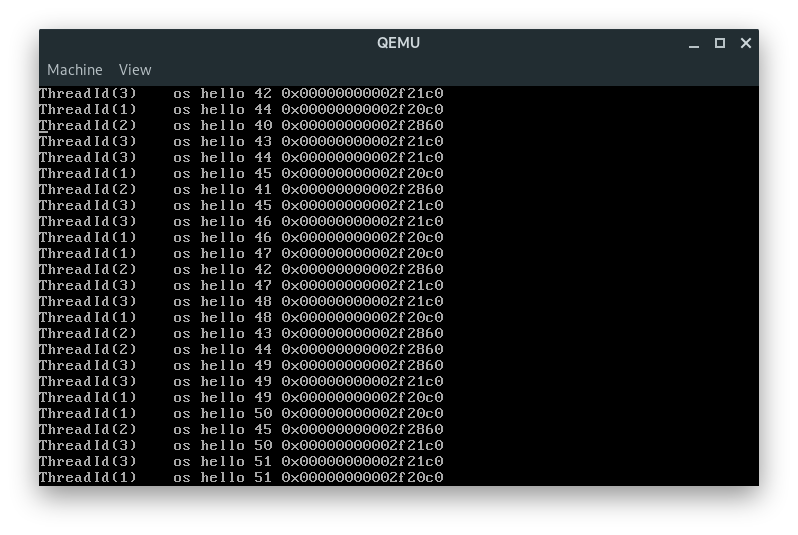
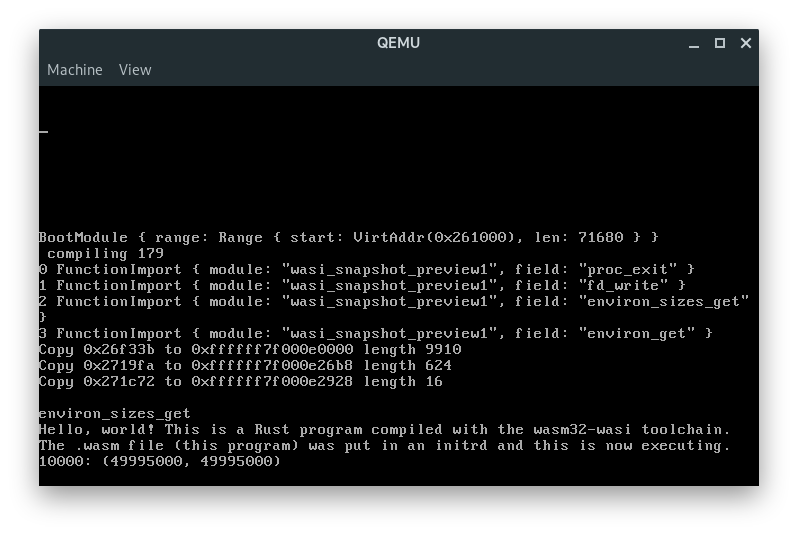
Update README

diff --git a/README.md b/README.md
@@ -25,8 +25,8 @@ Currently, it runs basic WebAssembly code in a basic multitasked environment.
 The heap uses a slab allocator design, and the virtual memory areas are managed by an AVL tree.
 For the ABI, I started with implementing [WASI](https://github.com/WebAssembly/WASI).
 
-Here's a screenshot of three instances of a test program calling a syscall.
-![Screenshot](docs/screenshot.png "Three threads calling a syscall")
+Here's a screenshot of a WASI compiled Rust program ([userspace/wasm-test](userspace/wasm-test)).
+![Screenshot](docs/screenshot.png "A simple Rust program")
 
 ## <a name="getting_started"> Getting started </a>
 
